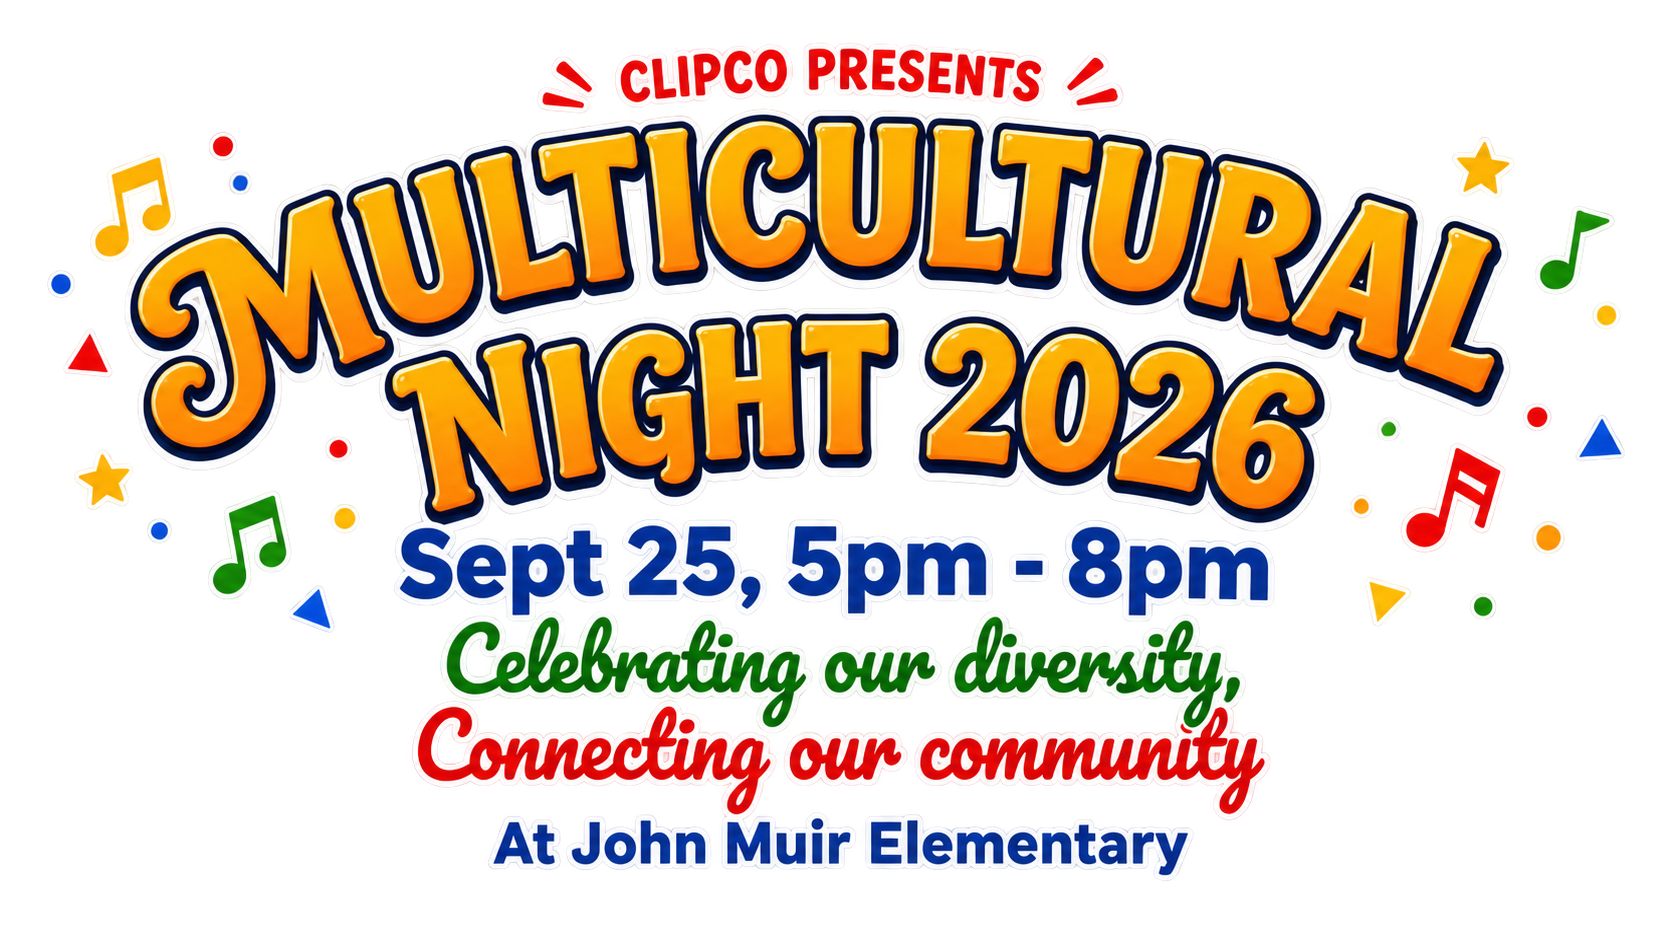
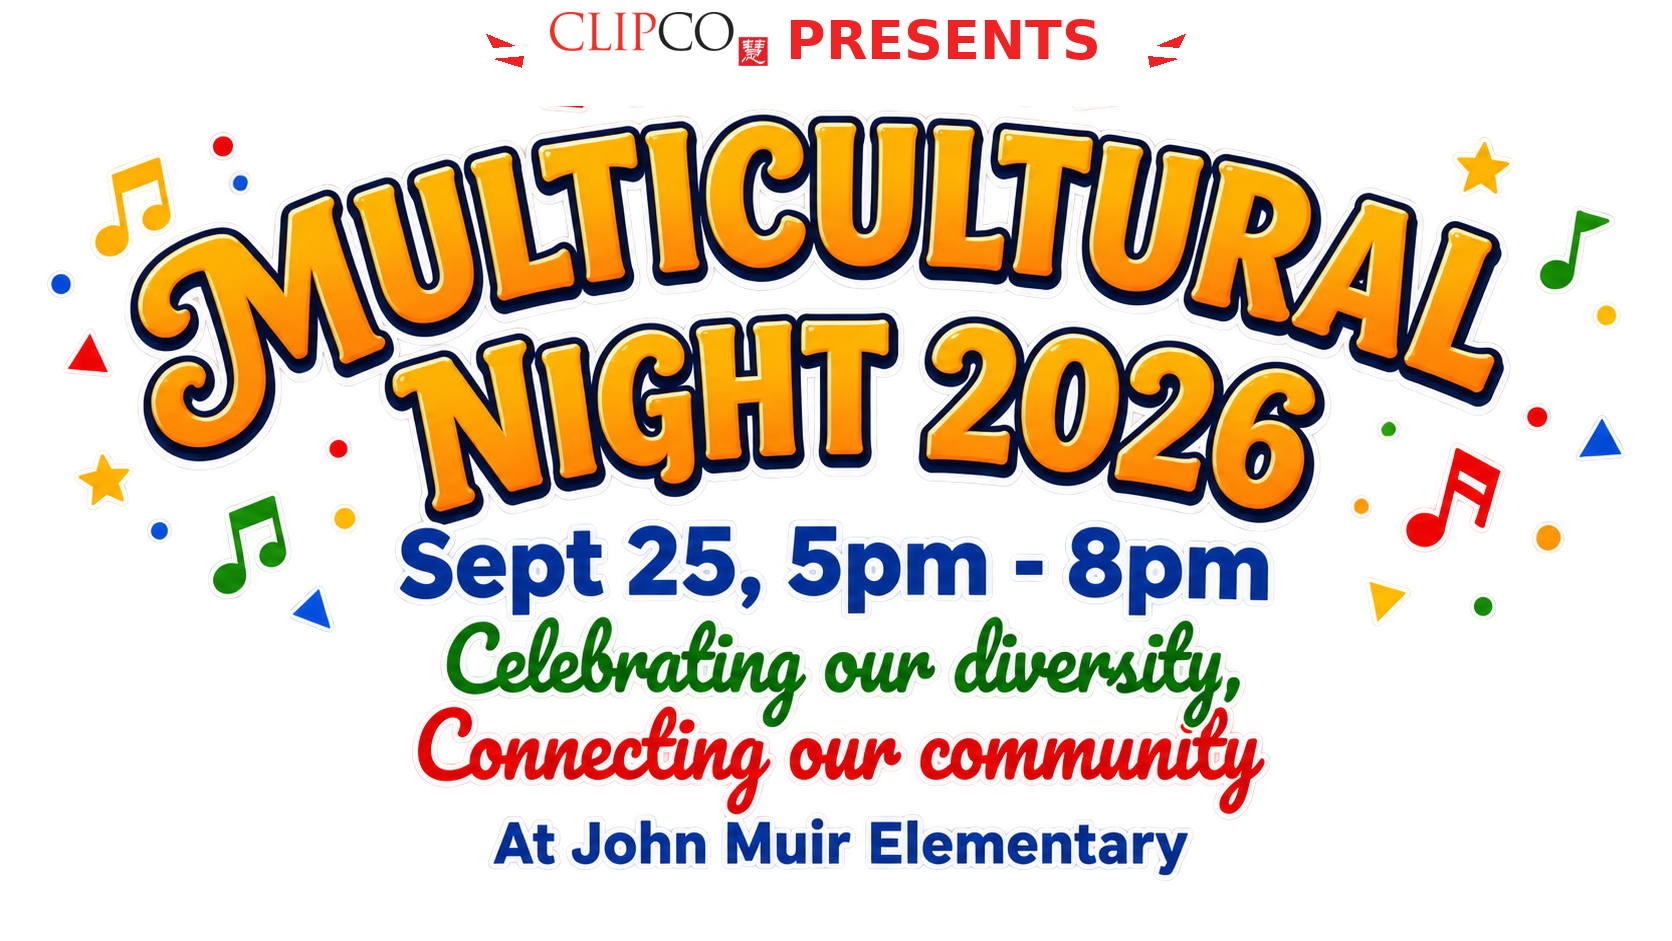
Add files via upload

Changed region(s): [[0.2799, 0.0, 0.7153, 0.1233]]

diff --git a/index.html b/index.html
@@ -20,10 +20,9 @@ radial-gradient(circle at 92% 8%, rgba(198,50,54,.14) 0 3px, transparent 4px),
 radial-gradient(circle at 18% 58%, rgba(35,151,91,.16) 0 2px, transparent 3px),
 radial-gradient(circle at 84% 40%, rgba(65,116,220,.12) 0 2px, transparent 3px),
 linear-gradient(180deg,#fffaf2 0%,#fff7eb 58%,#fffdf9 100%);}
-.topbar{background:linear-gradient(180deg,#1e7a40 0%,#0f5f2f 100%);color:#fff;padding:10px 0 14px;box-shadow:0 2px 12px rgba(0,0,0,.12)}
-.topbar-inner{width:min(1200px,calc(100% - 28px));margin:auto;display:flex;flex-direction:column;align-items:center;gap:10px;font-weight:800;letter-spacing:.03em}
+.topbar{background:linear-gradient(180deg,#1e7a40 0%,#0f5f2f 100%);color:#fff;padding:14px 0;box-shadow:0 2px 12px rgba(0,0,0,.12)}
+.topbar-inner{width:min(1200px,calc(100% - 28px));margin:auto;display:flex;justify-content:center;gap:34px;flex-wrap:wrap;font-weight:800;letter-spacing:.03em}
 .topbar a{color:#fff;text-decoration:none;font-size:15px}
-.top-logo img{display:block;height:56px;width:auto;max-width:min(90vw,320px)}
 .top-links{display:flex;justify-content:center;gap:34px;flex-wrap:wrap}
 .wrap{width:min(1200px,calc(100% - 28px));margin:auto}
 .hero{padding:22px 0 10px;text-align:center;position:relative;overflow:hidden}
@@ -70,10 +69,10 @@ linear-gradient(180deg,#fffaf2 0%,#fff7eb 58%,#fffdf9 100%);}
 .logo-grid.additional{display:grid;grid-template-columns:repeat(4,1fr);gap:16px;margin-top:4px}
 .logo-card{background:#fff;border:2px solid #eee3d2;border-radius:24px;padding:16px;min-height:205px;display:flex;flex-direction:column;justify-content:center;align-items:center;text-decoration:none;box-shadow:0 8px 18px rgba(0,0,0,.05);overflow:hidden}
 .logo-grid.featured .logo-card{border-top:8px solid #f1b347;min-height:220px}
-.logo-grid.additional .logo-card{min-height:185px}
+.logo-grid.additional .logo-card{min-height:145px;padding:12px}
 .logo-card img{width:100%;height:114px;object-fit:contain;transition:transform .2s ease}
-.logo-grid.additional .logo-card img{height:98px}
-.logo-card .label{margin-top:12px;font-size:13px;font-weight:800;color:#65707d;text-align:center;line-height:1.25}
+.logo-grid.additional .logo-card img{height:62px}
+.logo-card .label{margin-top:10px;font-size:12px;font-weight:800;color:#65707d;text-align:center;line-height:1.22}
 .logo-card.zoom-sm img{transform:scale(1.12)}
 .logo-card.zoom-md img{transform:scale(1.22)}
 .logo-card.zoom-lg img{transform:scale(1.34)}
@@ -84,12 +83,16 @@ linear-gradient(180deg,#fffaf2 0%,#fff7eb 58%,#fffdf9 100%);}
 .footer{background:linear-gradient(180deg,#176d38,#0f5c2f);color:#fff;text-align:center;padding:28px 0 34px}
 .footer .title{font-size:24px;font-weight:1000}
 .footer .sub{margin-top:6px;font-size:17px;opacity:.95}
+@media (max-width:1100px){
+  .logo-grid.additional{grid-template-columns:repeat(3,1fr)}
+}
 @media (max-width:980px){
-  .date-grid,.ticket-grid,.logo-grid.featured,.logo-grid.additional{grid-template-columns:1fr 1fr}
+  .date-grid,.ticket-grid,.logo-grid.featured{grid-template-columns:1fr 1fr}
+  .logo-grid.additional{grid-template-columns:repeat(3,1fr)}
   .ticket-grid .ticket-intro{grid-column:1/-1}
 }
 @media (max-width:680px){
-  .topbar-inner{gap:12px}
+  .topbar-inner{gap:16px}
   .top-links{gap:16px}
   .date-grid,.ticket-grid,.logo-grid.featured,.logo-grid.additional{grid-template-columns:1fr}
   .date-box + .date-box{border-left:none;border-top:2px solid #e7b14a}
@@ -103,7 +106,7 @@ linear-gradient(180deg,#fffaf2 0%,#fff7eb 58%,#fffdf9 100%);}
 </style>
 </head>
 <body>
-<nav class="topbar"><div class="topbar-inner"><a class="top-logo" href="#home"><img src="images/clipco-logo.png" alt="CLIPCO"></a><div class="top-links"><a href="#home">HOME</a><a href="#tickets">TICKETS</a><a href="#sponsors">SPONSORS</a><a href="#contact">CONTACT</a></div></div></nav>
+<nav class="topbar"><div class="topbar-inner"><div class="top-links"><a href="#home">HOME</a><a href="#tickets">TICKETS</a><a href="#sponsors">SPONSORS</a><a href="#contact">CONTACT</a></div></div></nav>
 <header class="hero" id="home"><div class="wrap">
 <img class="banner" src="images/header.png" alt="CLIPCO Presents Multicultural Night 2026. Sept 25, 5pm - 8pm. Celebrating our diversity, Connecting our community. At John Muir Elementary.">
 <div class="flags">🌍 🎏 🇲🇽 🇮🇳 🇯🇵 🇬🇭 🇺🇸 🇨🇳 🇧🇷 🇨🇦 🇬🇧 🇵🇭 🇰🇷 🇮🇹</div>
